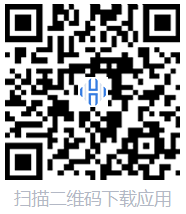
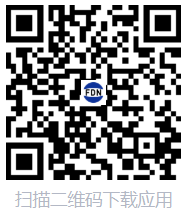
zhou

diff --git a/src/view/indexHeader.vue b/src/view/indexHeader.vue
@@ -100,8 +100,8 @@
 						</el-tooltip>
 					</div>
 					<div style="margin-left: 10px">
-						<!--<a href="https://51gsc.com/app/JJS0"><i class="fa fa-download" aria-hidden="true"></i></a>-->
-						<a href="https://51gsc.com/app/JJS0">{{$t('header.down')}}</a>
+						<!--<a href="https://51gsc.com/app/MLid"><i class="fa fa-download" aria-hidden="true"></i></a>-->
+						<a href="https://51gsc.com/app/MLid">{{$t('header.down')}}</a>
 					</div>
 				</div>
 				<!--				登录之后-->
@@ -226,8 +226,8 @@
 					</div>
 					<!--					下载-->
 					<div style="margin-left: 20px">
-						<!--<a href="https://51gsc.com/app/JJS0"><i class="fa fa-download" aria-hidden="true"></i></a>-->
-						<a href="https://51gsc.com/app/JJS0">App 下载</a>
+						<!--<a href="https://51gsc.com/app/MLid"><i class="fa fa-download" aria-hidden="true"></i></a>-->
+						<a href="https://51gsc.com/app/MLid">App 下载</a>
 					</div>
 
 				</div>

diff --git a/src/view/indexFooter.vue b/src/view/indexFooter.vue
@@ -35,7 +35,7 @@
     <ul class="ft12 foot_ul gray_a">
       <div>
         <li class="mb15 ft16 white">{{$t('header.help')}}</li>
-        <li class="mb15 curPer"><a href="https://51gsc.com/app/JJS0" target="_blank">{{$t('footer.download')}}</a></li>
+        <li class="mb15 curPer"><a href="https://51gsc.com/app/MLid" target="_blank">{{$t('footer.download')}}</a></li>
         <li class="mb15">
           <!-- <router-link :to="{path:'/components/noticeDetail',query:{id:47}}" class="mr15" tag="span">{{$t('footer.connect')}}</router-link> -->
           <router-link :to="{path:'/noticeHelp'}" tag="span">{{$t('footer.notice')}}</router-link>

diff --git a/src/components/register.vue b/src/components/register.vue
@@ -141,9 +141,9 @@ export default {
 
           if(window.location.href.indexOf("?") != -1){
             var can = this.getCaption(window.location.href,1)
-            window.location.href="https://www.hxex.com/register.html" + '?'+can;
+            window.location.href="https://www.bitfdn.com/register.html" + '?'+can;
           }else{
-            window.location.href="https://www.hxex.com/register.html" ;
+            window.location.href="https://www.bitfdn.com/register.html" ;
           }
 
       } else {

diff --git a/src/App.vue b/src/App.vue
@@ -122,7 +122,7 @@
 			},
 			//下载
 			upload(){
-               window.location.href = 'https://51gsc.com/app/JJS0'
+               window.location.href = 'https://51gsc.com/app/MLid'
 			},
 			checkPt(){
 				let sUserAgent = navigator.userAgent.toLowerCase();
